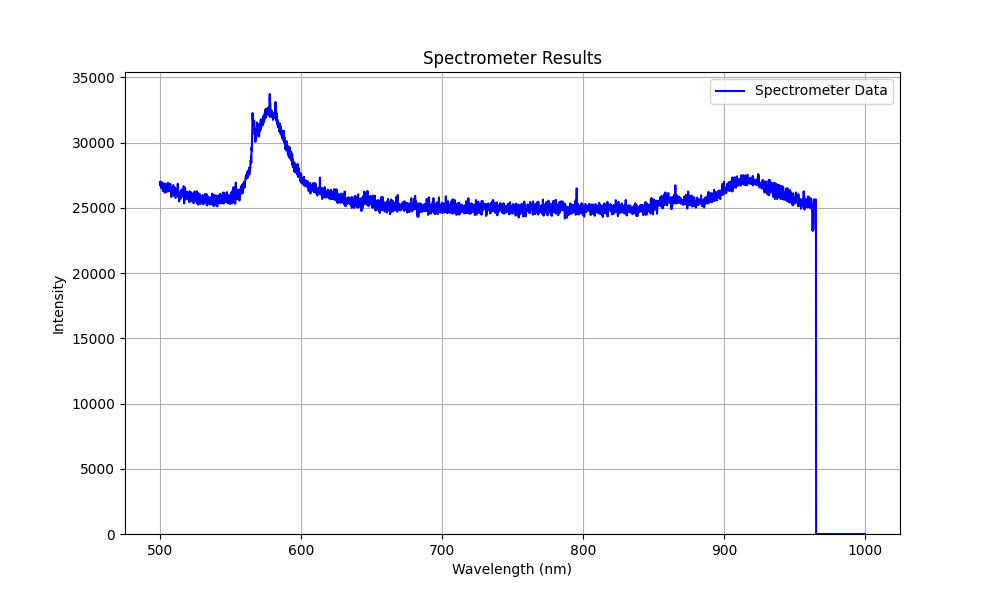
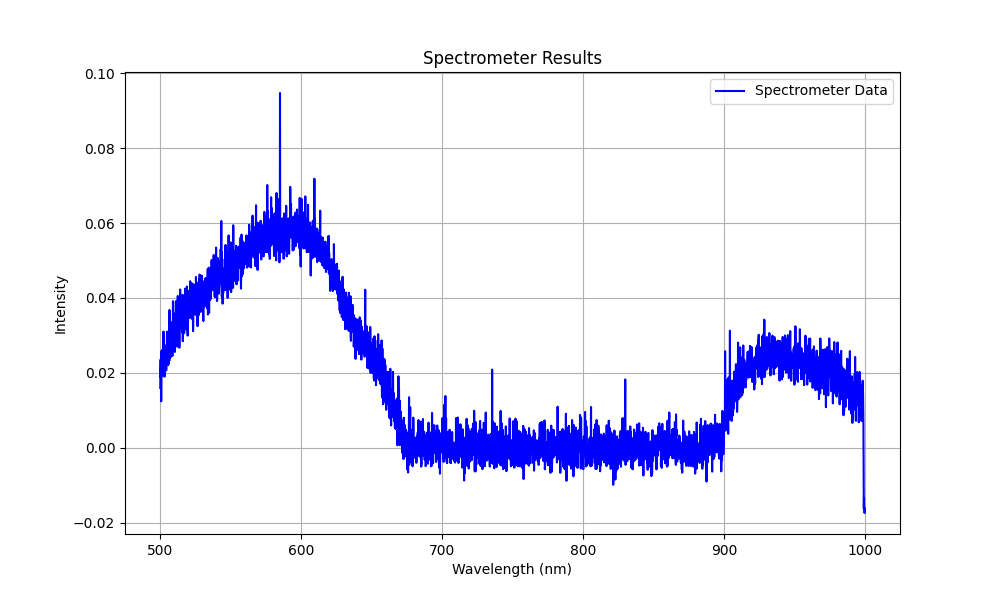
chore: Refactor code for better readability and maintainability

diff --git a/py_test.py b/py_test.py
@@ -51,7 +51,7 @@ def plot(data: np.ndarray, name: str = 'ressA.png'):
     plt.grid(True)
 
     # Set the y-axis limits to start at 0
-    plt.ylim(bottom=0, top=2000)
+    # plt.ylim(bottom=0)
 
     # Save the plot as a PNG file
     plt.savefig(name)
@@ -103,24 +103,54 @@ def scan_test():
 def three_scan_test():
     ccs = CCSDRV()
     ccs.open()
-    ccs.set_integration_time(1)
+    ccs.set_integration_time(0.5)
     print(f"Integration time: {ccs.get_integration_time()}")
     print(f"Dev status: {ccs.get_device_status()}")
     ccs.start_scan()
     print(f"Dev status: {ccs.get_device_status()}")
-    data = ccs._get_raw_data()
-    plotRaw(data, 'testA.png')
+    data = ccs.get_scan_data()
+    plot(data, 'testA.png')
     print(f"Dev status: {ccs.get_device_status()}")
     ccs.start_scan()
     print(f"Dev status: {ccs.get_device_status()}")
-    data = ccs._get_raw_data()
-    plotRaw(data, 'testB.png')
+    data = ccs.get_scan_data()
+    plot(data, 'testB.png')
     print(f"Dev status: {ccs.get_device_status()}")
     ccs.start_scan()
     print(f"Dev status: {ccs.get_device_status()}")
-    data = ccs._get_raw_data()
-    plotRaw(data, 'testC.png')
+    data = ccs.get_scan_data()
+    plot(data, 'testC.png')
     print(f"Dev status: {ccs.get_device_status()}")
     ccs.close()
 
-three_scan_test()
+def timed_test():
+    
+    ccs = CCSDRV()
+    ccs.open()
+    ccs.set_integration_time(0.5)
+    print(f"Integration time: {ccs.get_integration_time()}")
+    print(f"Dev status: {ccs.get_device_status()}")
+    
+    input("press enter to scan")
+    ccs.start_scan()
+    print(f"Dev status: {ccs.get_device_status()}")
+    data = ccs.get_scan_data()
+    plot(data, 'testA.png')
+    print(f"Dev status: {ccs.get_device_status()}")
+
+    input("press enter to scan")
+    ccs.start_scan()
+    print(f"Dev status: {ccs.get_device_status()}")
+    data = ccs.get_scan_data()
+    plot(data, 'testB.png')
+    print(f"Dev status: {ccs.get_device_status()}")
+
+    input("press enter to scan")
+    ccs.start_scan()
+    print(f"Dev status: {ccs.get_device_status()}")
+    data = ccs.get_scan_data()
+    plot(data, 'testC.png')
+    print(f"Dev status: {ccs.get_device_status()}")
+    ccs.close()
+
+timed_test()

diff --git a/ccsDrv.py b/ccsDrv.py
@@ -164,7 +164,7 @@ class CCSDRV:
         """Starts a single scan
         """
         self.io.control_out(const.CCS_SERIES_WCMD_MODUS, None, wValue=const.MODUS_INTERN_SINGLE_SHOT)
-        time.sleep(self.integration_time * 1.2) # Wait for scan to complete
+        time.sleep(self.integration_time) # Wait for scan to complete
 
     def start_scan_continuous(self):
         """Starts continuous scanning. Any function except get_scan_data() and get_device_status() will stop the scan.
@@ -213,7 +213,7 @@ class CCSDRV:
     def _acquire_raw_scan_data(self, raw: np.ndarray):
         # Initialize array for modified data
         data = np.zeros(const.CCS_SERIES_NUM_PIXELS, dtype=np.float64)    
-
+        
         # Sum the dark pixels
         dark_com = np.sum(raw[const.DARK_PIXELS_OFFSET:const.DARK_PIXELS_OFFSET + const.NO_DARK_PIXELS])
 
@@ -222,14 +222,14 @@ class CCSDRV:
 
         # Calculate normalizing factor
         norm_com = 1.0 / (const.MAX_ADC_VALUE - dark_com)
-
+        
         # Process raw data
         for i in range(const.CCS_SERIES_NUM_PIXELS):
-            data[i] = (raw[const.SCAN_PIXELS_OFFSET + i] - dark_com) #* norm_com
+            data[i] = (raw[const.SCAN_PIXELS_OFFSET + i]- dark_com) * norm_com
 
         return data
 
-
+    # FIXME: untested
     def read_eeprom(self, addr, idx, length):
 
         # Buffers

diff --git a/lowLevel.py b/lowLevel.py
@@ -35,7 +35,6 @@ class LLIO:
         self._connect()
         self.bulk_in_pipe = const.LL_DEFAULT_BULK_IN_PIPE    
         self.timeout = const.LL_DEFAULT_TIMEOUT
-        self.flush()
 
 
     def close(self):
